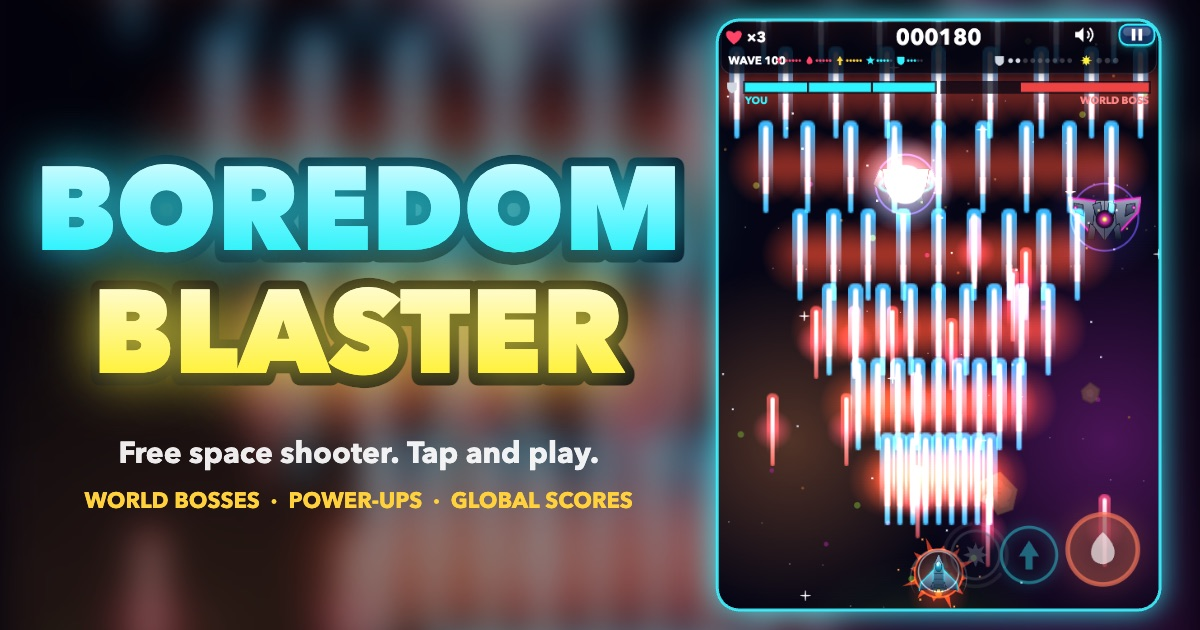
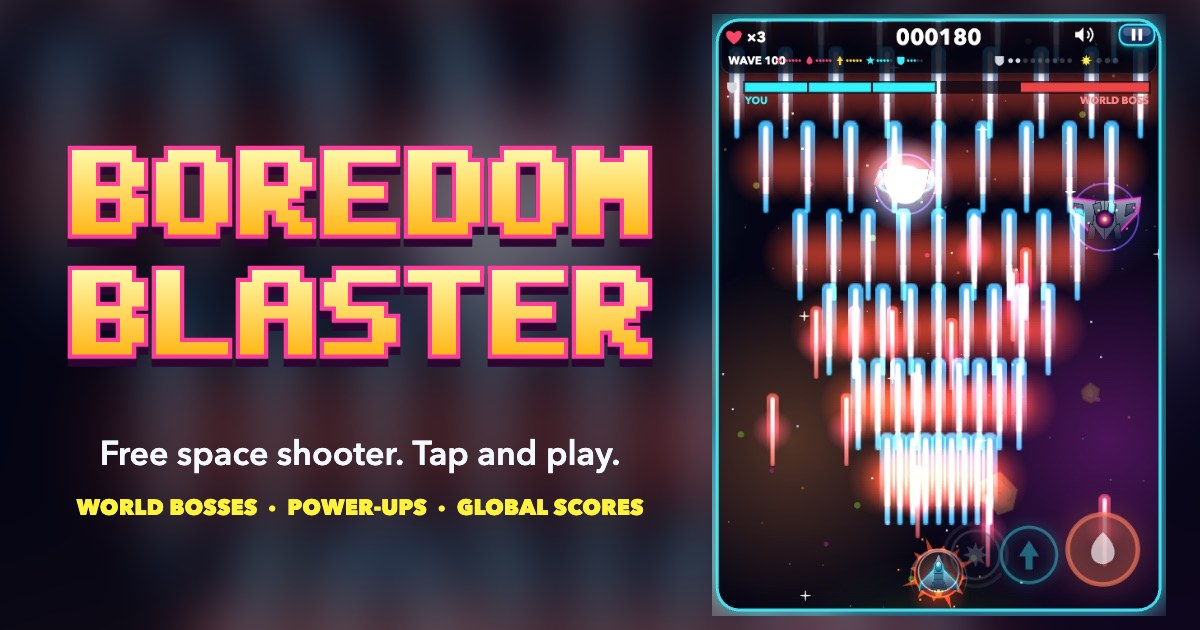
feat: link preview uses the game's pixel title (#12)

diff --git a/index.html b/index.html
@@ -15,7 +15,7 @@
 <meta property="og:url" content="https://maumoya.github.io/boredom-blaster-v2/">
 <meta property="og:title" content="Boredom Blaster">
 <meta property="og:description" content="Free space shooter. Tap and play: bosses, power-ups and global high scores.">
-<meta property="og:image" content="https://maumoya.github.io/boredom-blaster-v2/assets/brand/preview.jpg?v=bfea0e2">
+<meta property="og:image" content="https://maumoya.github.io/boredom-blaster-v2/assets/brand/preview.jpg?v=abaab50">
 <meta property="og:image:width" content="1200">
 <meta property="og:image:height" content="630">
 <meta name="twitter:card" content="summary_large_image">
